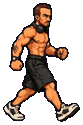
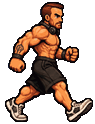
Chooby più caricaturale: 29 pose rifatte con ChatGPT (lds-12)
Claude-Session: https://claude.ai/code/session_01QVsszvbkaibvmeWVEak6Wq

diff --git a/sw.js b/sw.js
@@ -1,5 +1,5 @@
 // Lottatori di Strada - funziona anche senza rete e si aggiorna da solo.
-const VERSIONE='lds-11';
+const VERSIONE='lds-12';
 const FILE=['./','./index.html','./manifest.webmanifest','./icona-192.png','./icona-512.png'];
 self.addEventListener('install',e=>{ e.waitUntil(caches.open(VERSIONE).then(c=>c.addAll(FILE))); self.skipWaiting(); });
 self.addEventListener('activate',e=>{ e.waitUntil(caches.keys().then(k=>Promise.all(k.filter(x=>x!==VERSIONE).map(x=>caches.delete(x)))).then(()=>self.clients.claim())); });
